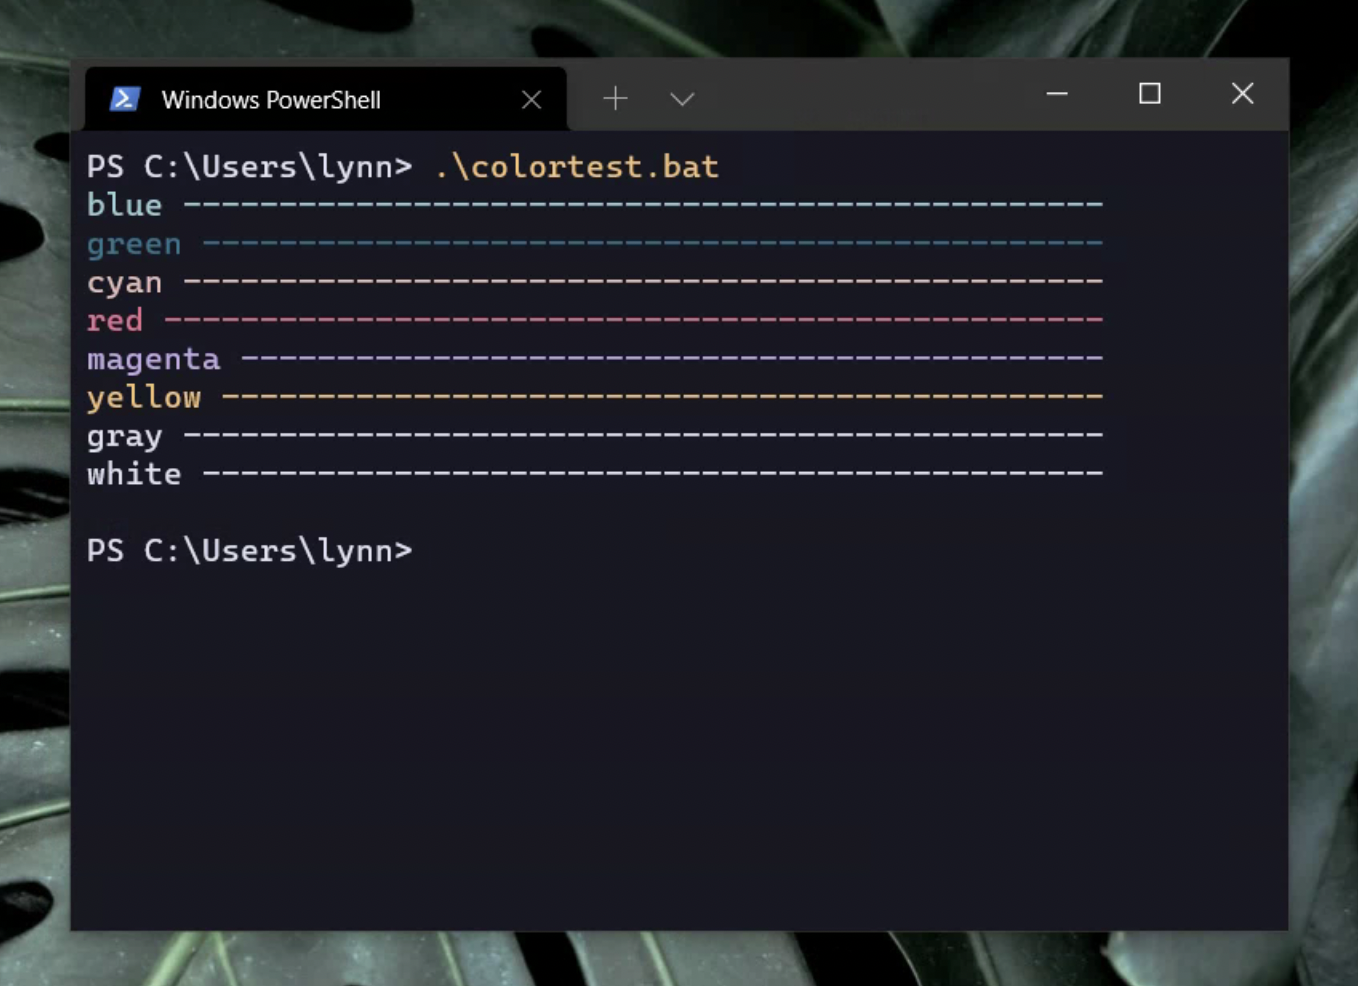
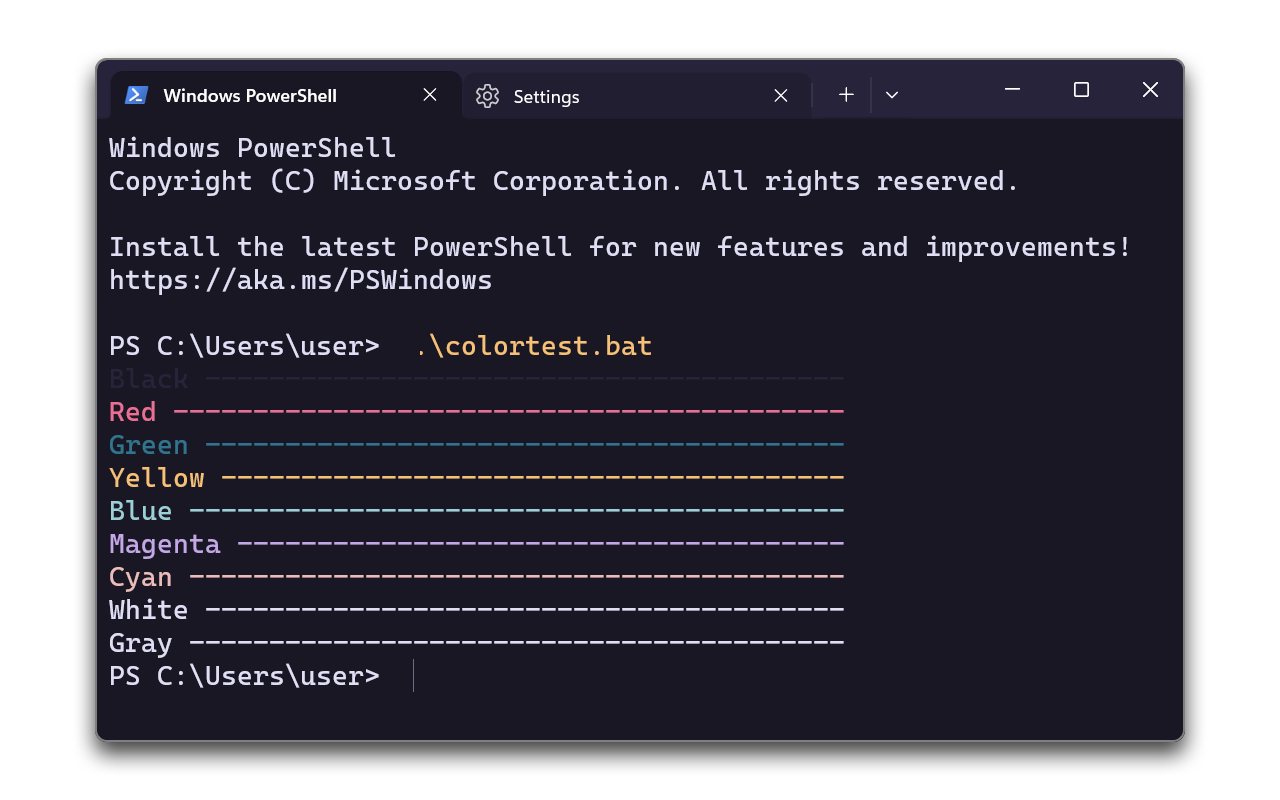
Add Rosé Pine Windows Terminal application theme (#4)
* Add scheme file suffix

* Add terminal themes

* Update readme

* Update assets

* Update usage description

diff --git a/readme.md b/readme.md
@@ -13,17 +13,28 @@
 
 ## Usage
 
-1. In settings, paste the contents of one of the theme files (e.g. `rose-pine.json`) in `schemes`
-2. Update `defaults` to include your chosen scheme:
+1. Open `settings.json` from Windows Terminal
+2. In the `schemes` section of the file, paste the contents of your chosen scheme file (e.g. `rose-pine.scheme.json`)
+3. Navigate to the `themes` section and paste the contents of the corresponding theme file (e.g. `rose-pine.theme.json`).
+4. Update `colorScheme` within the `profiles` section to include your chosen scheme:
 
-```"profiles":
+    ```json
     {
-        "defaults":
-        {
-            "colorScheme": "rose-pine"
-        },
+        "profiles": {
+            "defaults": {
+                "colorScheme": "rose-pine"
+            }
+        }
     }
-```
+    ```
+
+5. Update `theme` to use your chosen theme:
+
+    ```json
+    {
+        "theme": "rose-pine"
+    }
+    ```
 
 ## Gallery
 
